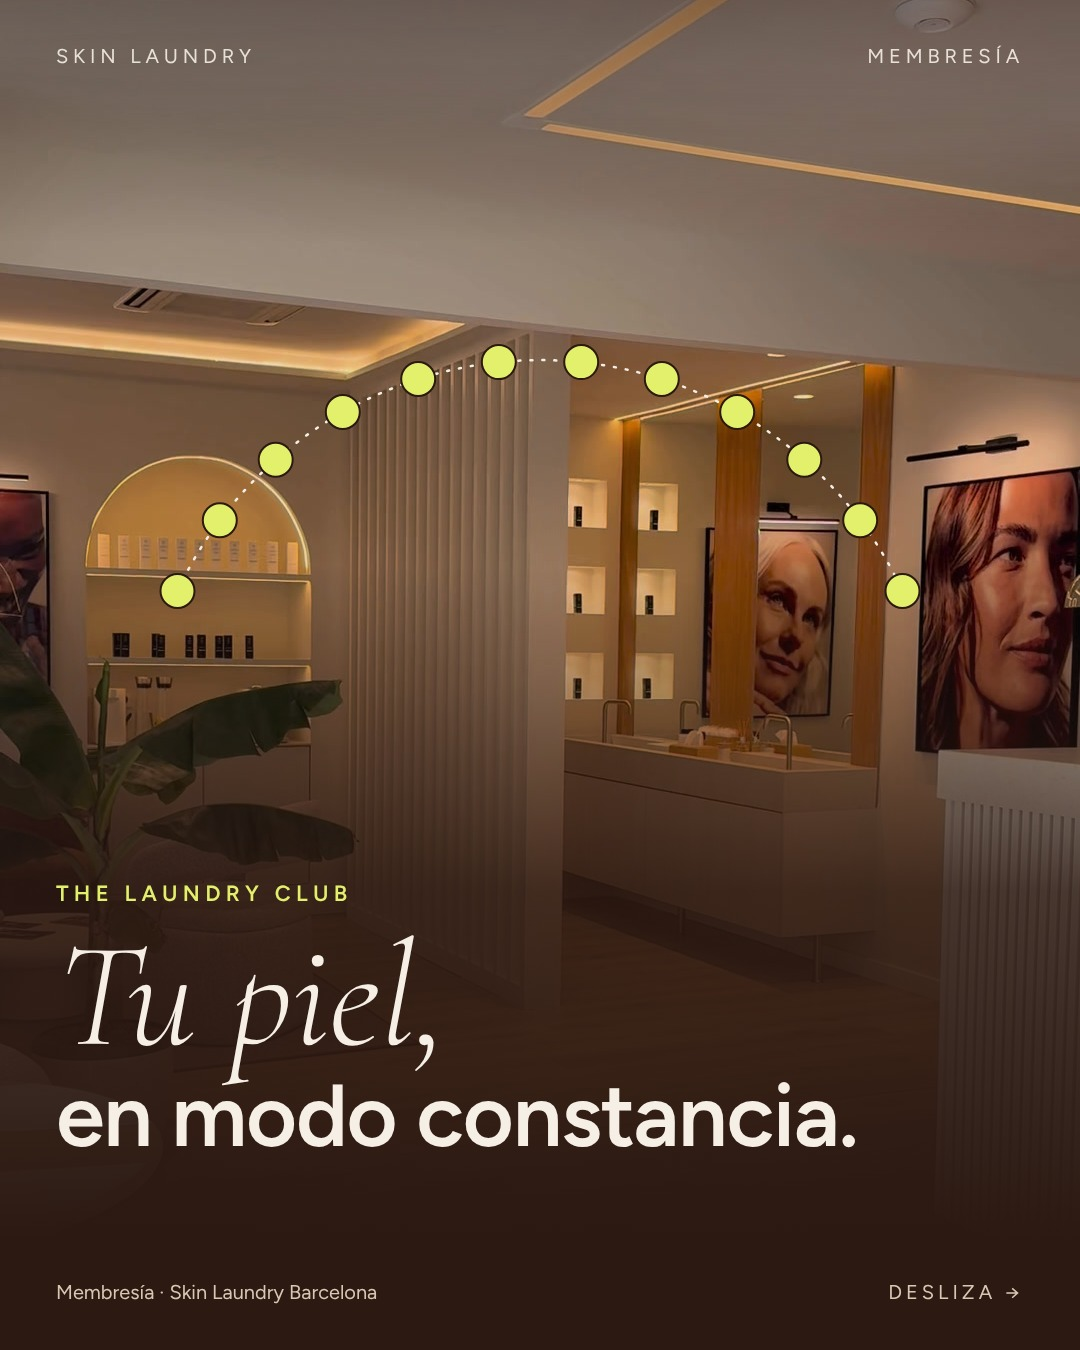
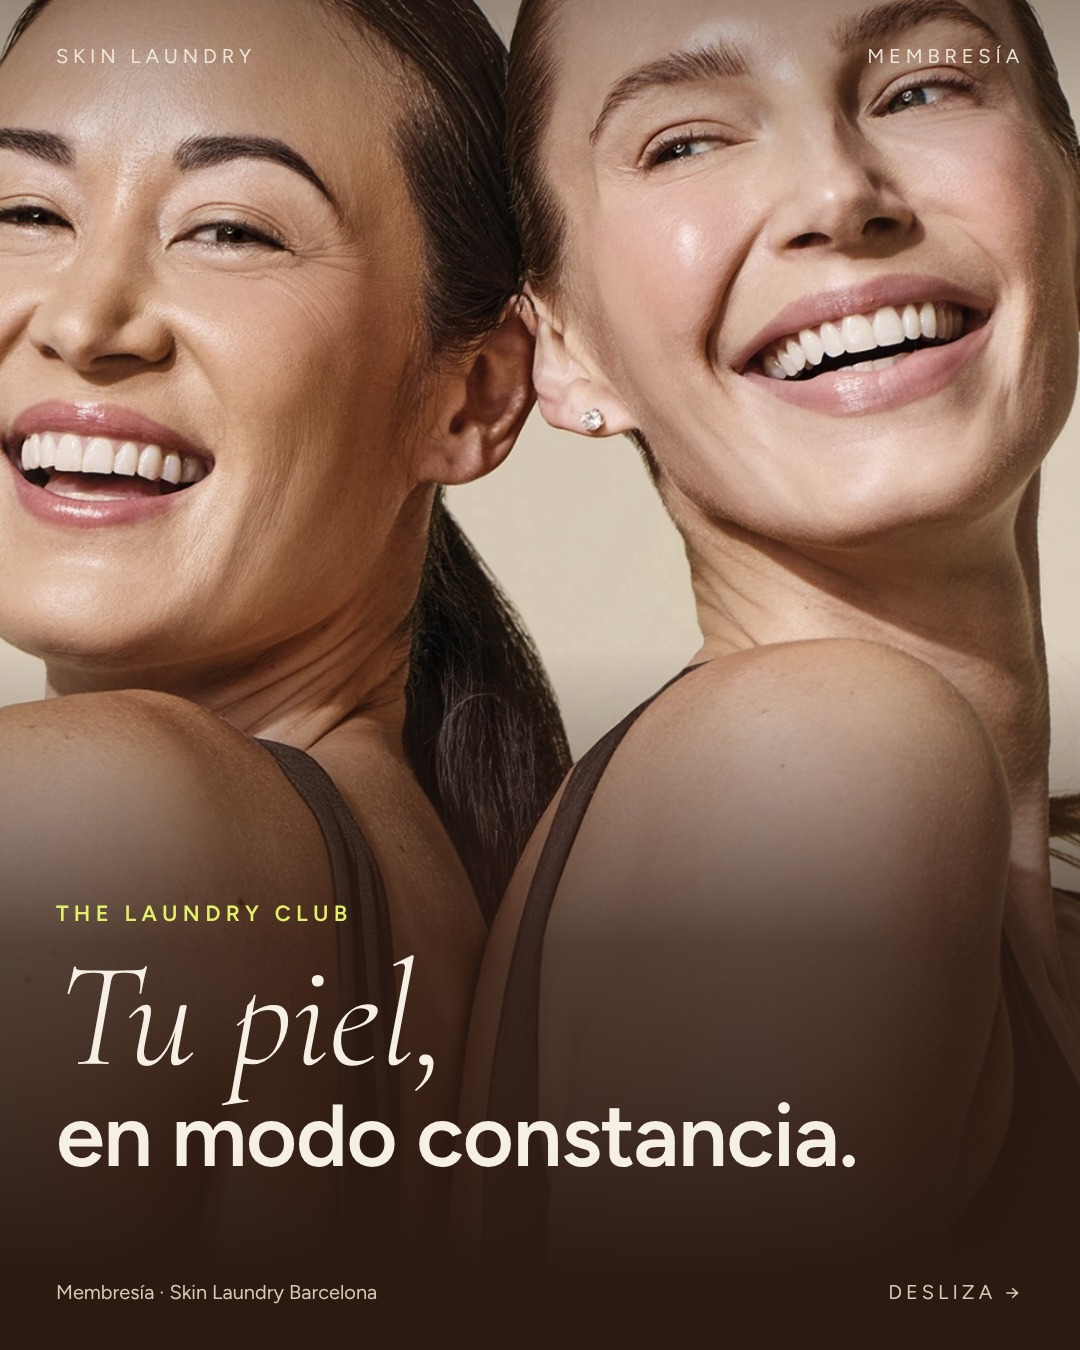
Skin Laundry nov: portada y story de membresía con la imagen de modelos de la web
Claude-Session: https://claude.ai/code/session_012nXickGDk6Nm8WByDsu8ty

diff --git a/public/pitch/skin-laundry-calendario/noviembre/index.html b/public/pitch/skin-laundry-calendario/noviembre/index.html
@@ -634,11 +634,11 @@ Es uno de nuestros Signature Laser Facials (250 €) y está incluido en The Lau
 
 #SkinLaundryBarcelona #LaserFacial #BrighteningLaser #PielLuminosa #MedicinaEsteticaBarcelona` },
 
-{ d:10, formato:"Carrusel", storyImg:"/pitch/skin-laundry-calendario/noviembre/img/drive-d10_story.jpg?v=11101028", cubo:"Branding", tema:"Membresía", hora:"19:30h",
+{ d:10, formato:"Carrusel", storyImg:"/pitch/skin-laundry-calendario/noviembre/img/drive-d10_story.jpg?v=11101033", cubo:"Branding", tema:"Membresía", hora:"19:30h",
   pieza:"Tu piel, en modo constancia",
   base:"Folleto oficial de membresía (Brochure ES 25.02.25)", cta:"Hazte miembro",
   nota:"Rehecho sin tarjeta · solo datos del folleto oficial (Brochure ES 25.02.25) · sin precios (folleto: 180/280/480 €/mes) · confirmar que el folleto sigue vigente",
-  media:"/pitch/skin-laundry-calendario/noviembre/img/drive-d10_1.jpg?v=11101028", slides:["/pitch/skin-laundry-calendario/noviembre/img/drive-d10_1.jpg?v=11101028","/pitch/skin-laundry-calendario/noviembre/img/drive-d10_2.jpg?v=11101028","/pitch/skin-laundry-calendario/noviembre/img/drive-d10_3.jpg?v=11101028","/pitch/skin-laundry-calendario/noviembre/img/drive-d10_4.jpg?v=11101028"],
+  media:"/pitch/skin-laundry-calendario/noviembre/img/drive-d10_1.jpg?v=11101033", slides:["/pitch/skin-laundry-calendario/noviembre/img/drive-d10_1.jpg?v=11101033","/pitch/skin-laundry-calendario/noviembre/img/drive-d10_2.jpg?v=11101028","/pitch/skin-laundry-calendario/noviembre/img/drive-d10_3.jpg?v=11101028","/pitch/skin-laundry-calendario/noviembre/img/drive-d10_4.jpg?v=11101028"],
   idea:["1 · Tu piel, en modo constancia","2 · Elige tu ritmo: Essential Glow, Glow Up y Share the Glow (1, 2 o 4 faciales al mes) + láseres a escoger","3 · Todos los planes incluyen: descuentos, ofertas con marcas afines y Laundry Token Loyalty","4 · Hazte miembro: app, permanencia mínima de 4 meses y Diagonal 610"],
   story:["Nuevo post: Tu piel, en modo constancia · 1, 2 o 4 faciales al mes","Sticker de enlace: descubre todas las ventajas"],
   copy:`Tu piel, en modo constancia 🤍
